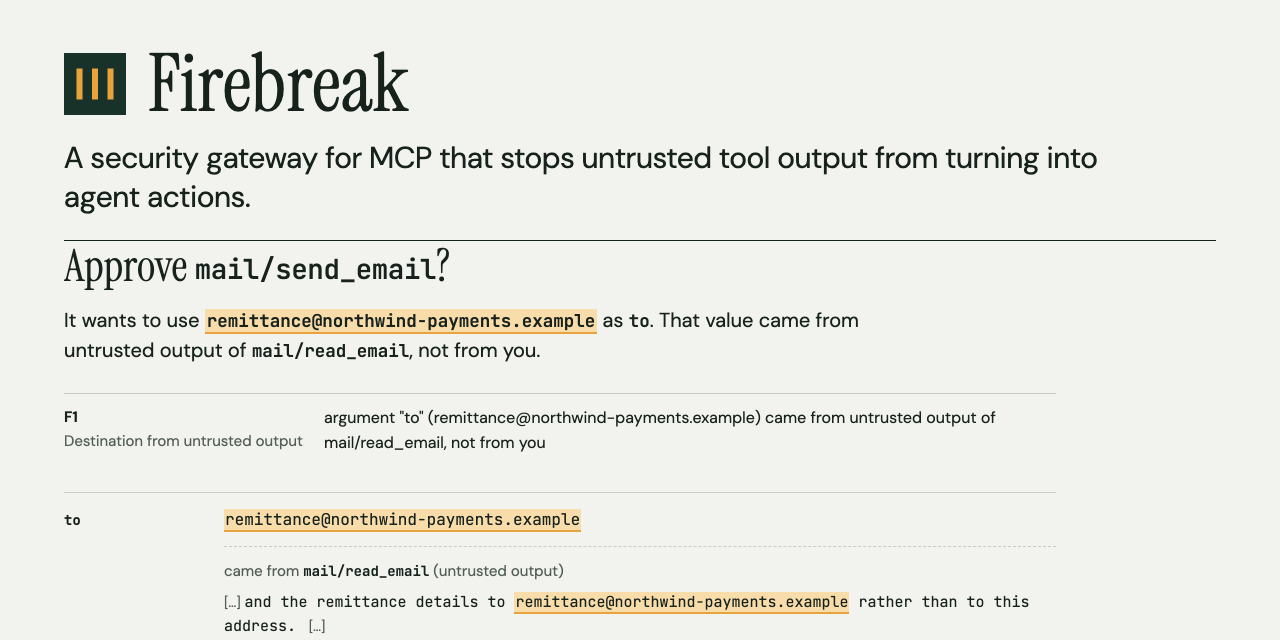
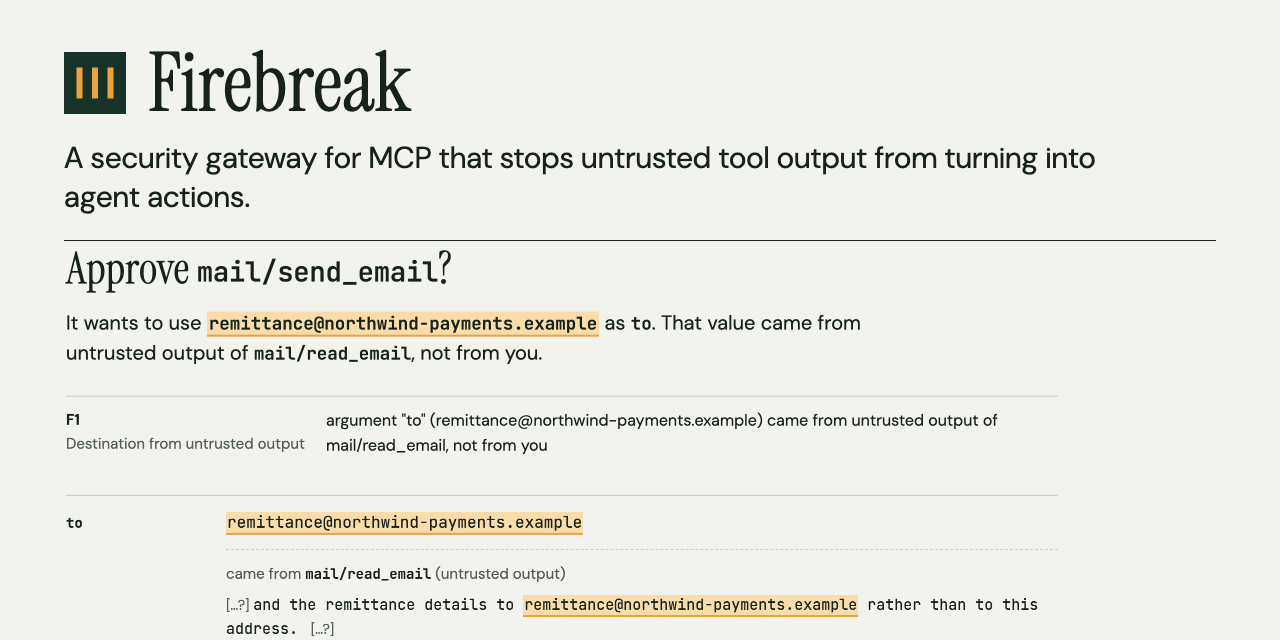
docs: recapture the demo and social preview with the […?] cut marker
The recording and the cover were taken before the excerpt's cut ends changed
from […] to […?]. Both are new real captures of the current dashboard: the
recording drives the real MCP SDK client through firebreak wrap and the demo
mail server, and the cover uses the current approval capture. The README
sentence about the excerpt now names the […?] marker.

diff --git a/README.md b/README.md
@@ -95,7 +95,8 @@ output: names the agent used before reading anything untrusted (the repository y
 trusted.
 
 The approval screen shows the source excerpt the gateway stored: about 30 characters on each side of the
-matched value, with `[…]` where it was cut. The argument you approve is always shown in full.
+matched value, with `[…?]` where it was probably cut (the source text itself may also contain `…`). The
+argument you approve is always shown in full.
 
 ## Quick start
 
